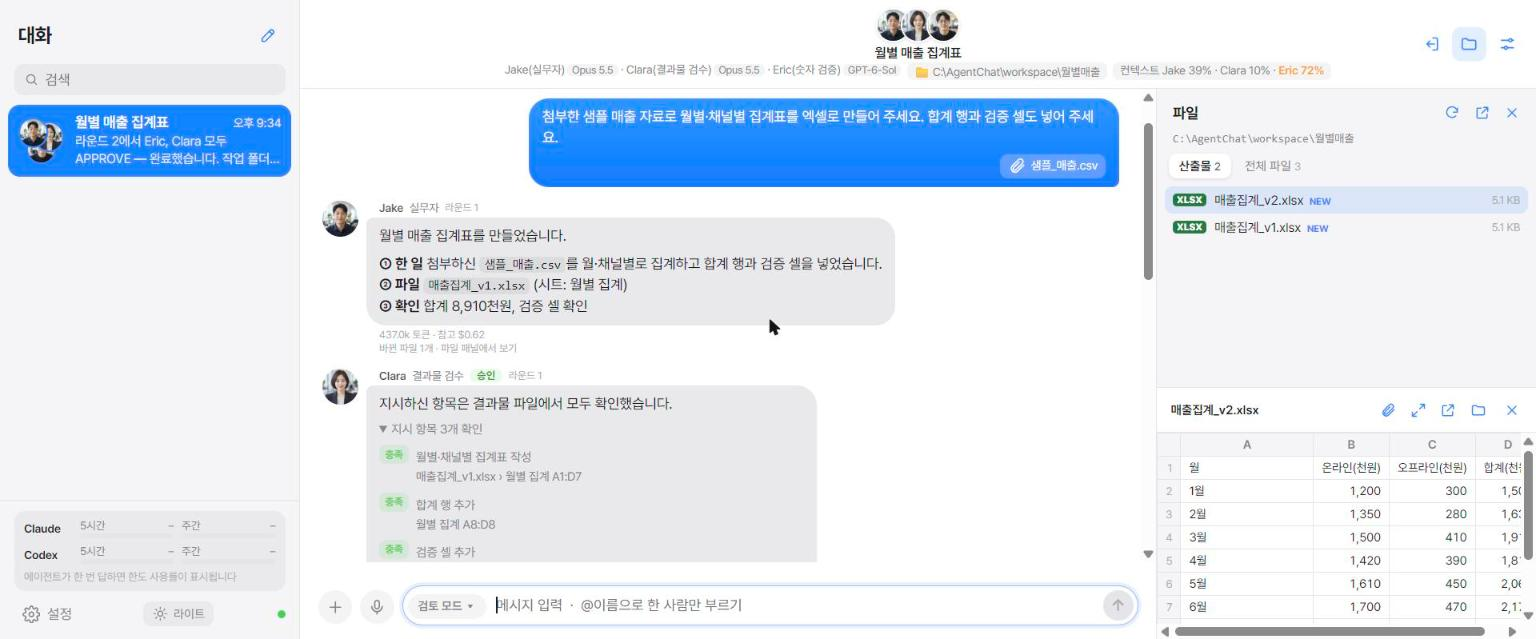
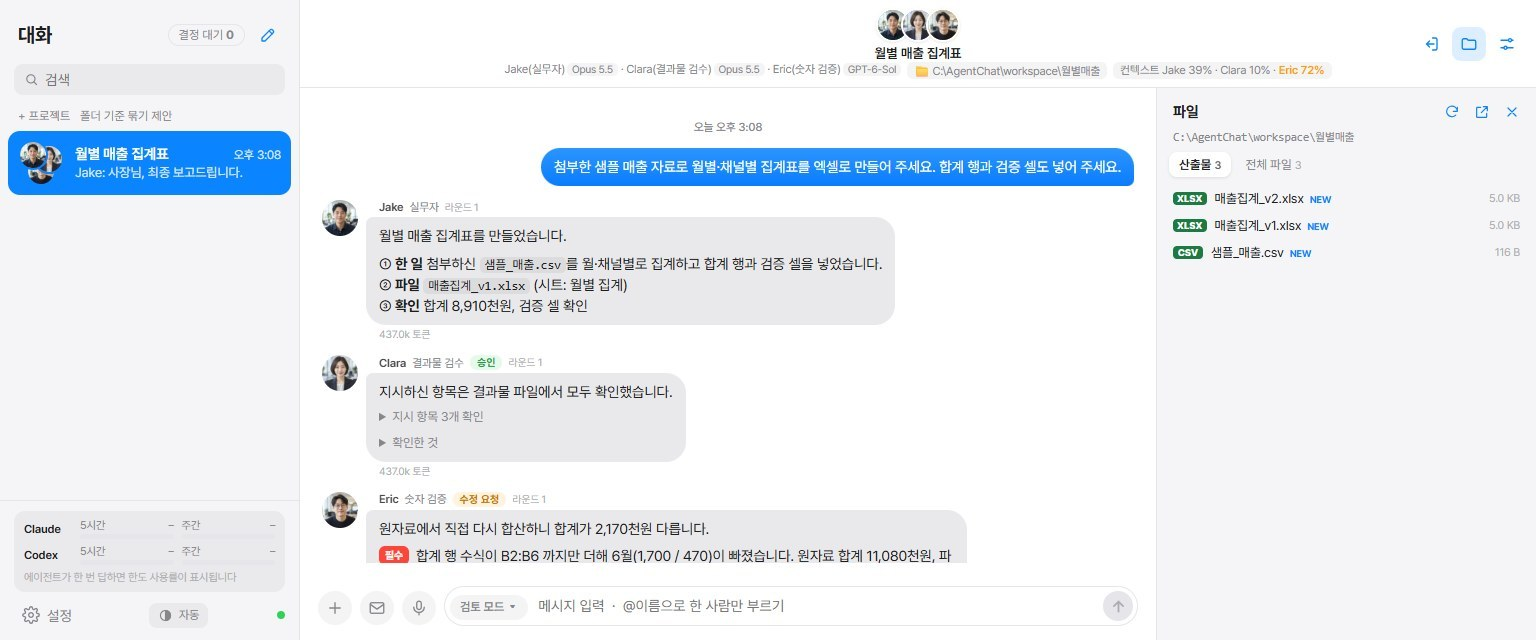
README 화면 사진 갱신(7장)·사진 재촬영 스크립트·공개 저장소 검증 스크립트
- 기존 4장(대화·검토·컨텍스트·보내기 전 대기)을 지금 화면으로 다시 찍고, 프로젝트·결정 대기함·메일 창 3장 추가
- 모두 지어낸 예시 자료와 배포용 기본 담당자(Jake·Clara·Eric, 기본 사진)로 찍음. 작업 폴더 경로는 사용자 이름 없는 경로,
  사진 메타데이터(EXIF·색 프로필) 없음
- tools/readme_shots.py: 임시 예시 설정·임시 서버·가짜 응답기·가짜 편지함으로 사진을 다시 찍는 스크립트
- tools/verify_public_repo.py: GitHub 사본의 전체 이력(지워진 파일 포함)을 검사어·개인정보 패턴·금지 경로·그림 메타데이터로 검사

diff --git a/tools/readme_shots.py b/tools/readme_shots.py
@@ -1,0 +1,195 @@
+r"""README 화면 사진을 다시 찍는다(지어낸 예시 자료·배포용 기본 담당자만 — 개인 설정·실제 대화·실제 사진은 쓰지 않는다).
+
+실행: python tools/readme_shots.py [--out docs]
+- tests 패키지가 설정 폴더를 임시 예시 설정(agents.example.yaml·settings.example.yaml)으로 돌려 둔다.
+- 기록·개인 키는 임시 폴더. 작업 폴더 경로는 사진에 찍히므로 사용자 이름이 없는 C:\AgentChat\workspace 아래에 만든다.
+- 메일 창은 tests/test_outlook 의 지어낸 편지함. 담당자는 가짜 응답기(CLI 호출 없음).
+- 127.0.0.1:8797 에 임시 서버를 띄우고 끝나면 내린다(쓰고 있는 서버·설정·기록은 건드리지 않음).
+"""
+from __future__ import annotations
+
+import argparse
+import shutil
+import sys
+import tempfile
+import time
+from pathlib import Path
+
+ROOT = Path(__file__).resolve().parent.parent
+sys.path.insert(0, str(ROOT))
+
+import tests  # noqa: E402,F401  (설정 폴더 → 임시 예시 설정)
+from tests import live_mail_ui as L  # noqa: E402
+from tests.test_flow import FakeRunner  # noqa: E402
+from tools import outlook_tool as T  # noqa: E402
+
+DEMO = Path(r"C:\AgentChat\workspace")
+L.PORT, L.PHONE_PORT = 8797, 8796
+L.BASE, L.PHONE = f"http://127.0.0.1:{L.PORT}", f"http://127.0.0.1:{L.PHONE_PORT}"
+CTX = {"jake": (388_000, 1_000_000), "clara": (96_000, 1_000_000), "quinn": (186_000, 258_400)}
+TASK = "첨부한 샘플 매출 자료로 월별·채널별 집계표를 엑셀로 만들어 주세요. 합계 행과 검증 셀도 넣어 주세요."
+SCROLLER = "(() => { let e = document.querySelector('#messages'); while (e && e.scrollHeight <= e.clientHeight + 2) e = e.parentElement; return e; })()"
+
+
+class ShotRunner(FakeRunner):
+    """가짜 응답기 + 컨텍스트 창에 보일 세션 크기·답변 토큰."""
+    async def run(self, prompt, workspace, schema_path=None, activity=None, approve=None, **kw):
+        res = await super().run(prompt, workspace, schema_path, None, approve, **kw)   # '실행 중' 표시가 답 뒤에 남지 않게
+        used, window = CTX.get(self.agent.key, (50_000, 1_000_000))
+        self.context = {"used": used, "window": window, "updated": time.time()}
+        res.usage = {"engine": "claude" if self.agent.key != "quinn" else "codex", "total_tokens": 437_000}
+        return res
+
+
+def rev(verdict, summary, issues=(), reqs=()):
+    return {"verdict": verdict, "summary": summary, "checks": "원자료와 결과물 파일을 직접 열어 확인했습니다.",
+            "issues": [{"severity": s, "description": d} for s, d in issues],
+            "requirements": [{"item": i, "met": True, "evidence": e} for i, e in reqs]}
+
+
+def make_files(ws: Path) -> None:
+    from openpyxl import Workbook
+    ws.mkdir(parents=True, exist_ok=True)
+    rows = [("1월", 1200, 300), ("2월", 1350, 280), ("3월", 1500, 410), ("4월", 1420, 390), ("5월", 1610, 450), ("6월", 1700, 470)]
+    (ws / "샘플_매출.csv").write_text("월,온라인,오프라인\n" + "\n".join(f"{m},{a},{b}" for m, a, b in rows), encoding="utf-8")
+    for v in ("v1", "v2"):
+        wb = Workbook()
+        sh = wb.active
+        sh.title = "월별 집계"
+        sh.append(["월", "온라인(천원)", "오프라인(천원)", "합계(천원)"])
+        for i, (m, a, b) in enumerate(rows, 2):
+            sh.append([m, a, b, a + b])
+        last = 7 if v == "v2" else 6
+        sh.append(["합계", sum(r[1] for r in rows[:last]), sum(r[2] for r in rows[:last]), sum(r[1] + r[2] for r in rows[:last])])
+        wb.save(ws / f"매출집계_{v}.xlsx")
+
+
+SCRIPTS = {
+    "jake": [
+        "월별 매출 집계표를 만들었습니다.\n\n① **한 일** 첨부하신 `샘플_매출.csv`를 월·채널별로 집계하고 합계 행과 검증 셀을 넣었습니다.\n"
+        "② **파일** `매출집계_v1.xlsx` (시트: 월별 집계)\n③ **확인** 합계 8,910천원, 검증 셀 확인",
+        "Eric 지적 1건을 고쳤습니다.\n\n- 합계 수식 범위에서 6월 행이 빠진 것 → **수정함** (B2:B6 → B2:B7)\n\n"
+        "원본은 그대로 두고 `매출집계_v2.xlsx`로 저장했습니다. 다시 계산한 합계는 11,080천원이고 검증 셀은 TRUE입니다.",
+        "거래처 잔액 조회서 회신 3건을 장부와 대사했습니다. 2건은 일치하고 1건은 120천원 차이가 납니다.\n\n"
+        "**확인 요청**\n1. 차이 120천원(A사 매출채권)을 회사에 소명 요청할까요, 기말 조정 후보로 둘까요?",
+        "견본 계약서 2건(지어낸 예시)의 조항을 비교했습니다. 대금 지급 조건과 계약 기간이 다릅니다.\n\n"
+        "**확인 요청**\n1. 비교표를 엑셀로 만들까요, 보고서 한 장으로 요약할까요?",
+    ],
+    "clara": [rev("APPROVE", "지시하신 항목은 결과물 파일에서 모두 확인했습니다.",
+                  reqs=[("월별·채널별 집계표 작성", "매출집계_v1.xlsx › 월별 집계 A1:D7"), ("합계 행 추가", "월별 집계 A8:D8"),
+                        ("검증 셀 추가", "월별 집계 E8")]),
+              rev("APPROVE", "v2 에서도 지시 항목이 모두 충족됩니다. 원본 v1 은 그대로 있습니다.",
+                  reqs=[("합계 범위 수정 반영", "매출집계_v2.xlsx › 월별 집계 B8:D8"), ("원본 보존(새 버전 저장)", "v1·v2 파일 모두 존재")])],
+    "quinn": [rev("REVISE", "원자료에서 직접 다시 합산하니 합계가 2,170천원 다릅니다.",
+                  issues=[("blocker", "합계 행 수식이 B2:B6 까지만 더해 6월(1,700 / 470)이 빠졌습니다. 원자료 합계 11,080천원, 파일 8,910천원.")]),
+              rev("APPROVE", "합계 11,080천원이 원자료 재계산 값과 원 단위까지 일치합니다. 검증 셀 TRUE."),
+              "v2 합계 11,080천원 다시 확인했습니다. 원자료와 일치합니다."],
+}
+
+
+def main(out: Path) -> None:
+    from playwright.sync_api import sync_playwright
+    tmp = Path(tempfile.mkdtemp(prefix="agentchat_shots_"))
+    DEMO.mkdir(parents=True, exist_ok=True)
+    import app.config as appconfig     # 배포용 기본 사진만 임시 설정 폴더로(실제 인물 기반 local_* 는 쓰지 않음)
+    av = appconfig.CONFIG_DIR / "avatars"
+    av.mkdir(exist_ok=True)
+    for name in ("jake_320.jpg", "clara_320.jpg", "quinn_320.jpg"):
+        shutil.copy(ROOT / "config" / "avatars" / name, av / name)
+    L.FakeRunner = ShotRunner          # 임시 서버가 쓰는 응답기
+    FakeRunner.scripts = {k: list(v) for k, v in SCRIPTS.items()}
+    FakeRunner.calls = []
+    server, th = L.start_server(tmp)
+    case = L.fake_mailbox()
+    T.connect = lambda: (case.app, case.ns)
+    shots = []
+
+    def shot(page, name):
+        page.mouse.move(5, 630)
+        time.sleep(0.6)
+        page.screenshot(path=str(out / name), type="jpeg", quality=88)
+        from PIL import Image                     # 브라우저가 붙이는 색 프로필(ICC)까지 빼고 다시 저장 — 메타데이터 없는 사진
+        with Image.open(out / name) as im:
+            clean = im.convert("RGB")
+        clean.save(out / name, "JPEG", quality=88)
+        shots.append(name)
+        print("  사진:", name)
+
+    try:
+        ws = DEMO / "월별매출"
+        make_files(ws)
+        conv = L.api("/api/conversations", {"title": "월별 매출 집계표", "workspace": str(ws)})["id"]
+        with sync_playwright() as p:
+            browser = p.chromium.launch(channel="chrome", headless=True)
+            page = browser.new_page(viewport={"width": 1536, "height": 640})
+            page.goto(f"{L.BASE}/#conv={conv}")
+            page.wait_for_selector("#input", timeout=15000)
+            page.evaluate("S.sendDelay = 0")
+            page.fill("#input", TASK)
+            page.click("#btnSend")
+            page.wait_for_function("document.body.innerText.includes('모두 APPROVE')", timeout=60000)
+            page.click("#btnFiles")
+            page.wait_for_timeout(1200)
+            page.click("text=매출집계_v2.xlsx")
+            page.wait_for_timeout(1500)
+            page.evaluate(f"{SCROLLER}.scrollTop = 0")
+            shot(page, "screenshot-1-chat.jpg")
+            page.evaluate(f"(() => {{ const s = {SCROLLER}; s.scrollTop = s.scrollHeight * 0.42; }})()")
+            shot(page, "screenshot-2-review.jpg")
+            page.click(".ctx-chip")
+            page.wait_for_selector(".ctx-modal")
+            shot(page, "screenshot-3-context.jpg")
+            page.keyboard.press("Escape")
+            page.evaluate(f"{SCROLLER}.scrollTop = 1e9")
+            page.evaluate("S.sendDelay = 10")
+            page.fill("#input", "@Eric v2 합계만 한 번 더 확인해줘")
+            page.click("#btnSend")
+            page.wait_for_timeout(700)
+            shot(page, "screenshot-4-hold.jpg")
+            page.wait_for_timeout(11000)            # 대기 끝나고 실제로 보내져 답이 오도록
+            page.evaluate("S.sendDelay = 0")
+
+            # 결정 대기함 + 프로젝트: 지어낸 실사 건 두 대화
+            ids = []
+            for title, text in (("거래처 조회서 대사", "@Jake 조회서 회신 3건 장부랑 대사해줘"),
+                                ("견본 계약서 비교", "@Jake 견본 계약서 두 건 조항 비교해줘")):
+                ws2 = DEMO / title.replace(" ", "_")
+                ws2.mkdir(parents=True, exist_ok=True)
+                c = L.api("/api/conversations", {"title": title, "workspace": str(ws2)})["id"]
+                ids.append(c)
+                page.goto(f"{L.BASE}/?v={c}#conv={c}")   # 같은 페이지 안의 해시 이동은 대화가 바뀌지 않아 새로 연다
+                page.wait_for_selector("#input")
+                page.wait_for_timeout(800)
+                page.evaluate("S.sendDelay = 0")
+                page.fill("#input", text)
+                page.click("#btnSend")
+                page.wait_for_function("document.querySelector('#messages').innerText.includes('확인 요청')", timeout=30000)
+                page.wait_for_timeout(1500)
+            L.api("/api/projects", {"name": "예시사 실사", "memo": "기준일 2025-12-31, 금액 단위 원", "conv_ids": ids + [conv]})
+            page.goto(f"{L.BASE}/?v=p#conv={ids[0]}")
+            page.wait_for_selector("#input")
+            page.wait_for_timeout(1200)
+            shot(page, "screenshot-5-project.jpg")
+            page.click("#btnInbox")
+            page.wait_for_selector(".inbox-item")
+            shot(page, "screenshot-6-inbox.jpg")
+            page.keyboard.press("Escape")
+
+            page.goto(f"{L.BASE}/?v=m#conv={conv}")
+            page.wait_for_selector("#btnMail:not(.hidden)", timeout=15000)
+            page.click("#btnMail")
+            page.wait_for_selector(".mail-row")
+            page.wait_for_timeout(800)
+            shot(page, "screenshot-7-mail.jpg")
+            browser.close()
+    finally:
+        server.should_exit = True
+        th.join(5)
+        shutil.rmtree(tmp, ignore_errors=True)
+    print("찍은 사진", len(shots), "장 →", out)
+
+
+if __name__ == "__main__":
+    ap = argparse.ArgumentParser()
+    ap.add_argument("--out", default=str(ROOT / "docs"))
+    main(Path(ap.parse_args().out))

diff --git a/tools/verify_public_repo.py b/tools/verify_public_repo.py
@@ -1,0 +1,128 @@
+r"""공개 저장소 검증: GitHub 에서 새로 내려받은 사본으로, 전체 이력의 모든 파일 버전(지워진 것 포함)을 검사한다.
+- 글 파일: 검사어(private/sensitive_terms.txt)·개인정보 패턴(이메일·전화·주민·사업자번호·법인 표기·PC 사용자 경로)
+- 그림·그 밖의 바이너리: 고유 내용(blob)마다 크기·종류·메타데이터(EXIF·PNG 글 조각·JPEG 주석)를 적고, 그림은 눈 확인용으로 꺼내 둔다
+- 올리면 안 되는 경로(개인 설정·로그·첨부·실제 인물 사진 등)가 이력 어디에라도 있었는지
+- 커밋 작성자·커미터 이메일과 커밋 메시지
+사용: python tools/verify_public_repo.py <출력 폴더>   (출력 폴더 안에 clone\ 과 blobs\ 가 생긴다. 출력 폴더는 git 제외 위치로)
+결과: 출력 폴더\report.json + 화면 요약. 확인하지 못한 바이너리는 '미확인'으로 따로 센다(0건 집계에 넣지 않음)."""
+from __future__ import annotations
+
+import io
+import json
+import re
+import subprocess
+import sys
+from pathlib import Path
+
+ROOT = Path(__file__).resolve().parent.parent
+URL = "https://github.com/joongpark0902/AgentChat.git"
+TERMS = [t.strip() for t in (ROOT / "private" / "sensitive_terms.txt").read_text(encoding="utf-8").splitlines()
+         if t.strip() and not t.strip().startswith("#")]
+PII = {
+    "이메일": re.compile(r"[\w.+-]+@[\w-]+(?:\.[\w-]+)+"),
+    "전화": re.compile(r"\b01[016789]-?\d{3,4}-?\d{4}\b|\b0\d{1,2}-\d{3,4}-\d{4}\b"),
+    "주민·외국인번호": re.compile(r"\b\d{6}-[1-8]\d{6}\b"),
+    "사업자번호": re.compile(r"\b\d{3}-\d{2}-\d{5}\b"),
+    "법인 표기": re.compile(r"주식회사|\(주\)|㈜"),
+    "PC 사용자 경로": re.compile(r"[Cc]:[\\/]+Users[\\/]+(?!Public|Default|<|\{|%|\w*\.\.\.)\w+", re.I),
+}
+SAFE_MAIL = re.compile(r"@([\w-]+\.)*(example(\.\w+)*|test|invalid|localhost|users\.noreply\.github\.com|anthropic\.com)$"
+                       r"|@v?\d+(\.\d+)*$", re.I)
+FORBIDDEN = re.compile(r"(^|/)(agents\.yaml|settings\.yaml|\.claude\.json|auth\.json)$|(^|/)(private|logs|_첨부|_메일|backups|workspace)/"
+                       r"|avatars/local_|\.(jsonl|state\.json)$", re.I)
+TEXT_EXT = re.compile(r"\.(py|js|ts|css|html?|md|txt|ya?ml|json|bat|cmd|ps1|toml|ini|cfg|svg|gitignore|gitkeep)$|^[^.]+$", re.I)
+
+
+def git(cwd, *a, binary=False):
+    p = subprocess.run(["git", "-C", str(cwd), *a], capture_output=True)
+    return p.stdout if binary else p.stdout.decode("utf-8", "replace")
+
+
+def _utf8(data: bytes) -> bool:
+    try:
+        data.decode("utf-8")
+        return True
+    except UnicodeDecodeError:
+        return False
+
+
+def image_meta(data: bytes) -> dict:
+    from PIL import Image
+    im = Image.open(io.BytesIO(data))
+    exif = {k: str(v)[:60] for k, v in (im.getexif() or {}).items()}
+    info = {k: str(v)[:80] for k, v in im.info.items() if k not in ("dpi", "jfif", "jfif_version", "jfif_unit", "jfif_density",
+                                                                    "progressive", "progression", "icc_profile", "gamma")}
+    return {"format": im.format, "size": im.size, "exif": exif, "info": info}
+
+
+def main(out: Path):
+    out.mkdir(parents=True, exist_ok=True)
+    clone = out / "clone"
+    if not clone.exists():
+        subprocess.run(["git", "clone", "--quiet", "--mirror", URL, str(clone)], check=True)
+    head = git(clone, "rev-parse", "main").strip()
+    commits = git(clone, "rev-list", "--all").split()
+    meta = [l.split("\x1f") for l in git(clone, "log", "--all", "--format=%h\x1f%ae\x1f%ce\x1f%B\x1e").split("\x1e") if l.strip()]
+    rep = {"head": head, "commits": len(commits), "emails": sorted({m[i].strip() for m in meta for i in (1, 2)}),
+           "message_hits": [], "text_hits": [], "forbidden_paths": [], "binaries": [], "unchecked": []}
+    for m in meta:
+        for t in TERMS:
+            if t.lower() in m[3].lower():
+                rep["message_hits"].append({"commit": m[0].strip(), "term": t[:2] + "…"})
+    # 전체 이력의 (경로, blob) — 같은 내용은 한 번만 검사
+    seen, paths_by_blob = set(), {}
+    for c in commits:
+        for line in git(clone, "-c", "core.quotepath=false", "ls-tree", "-r", c).splitlines():
+            mode_type_sha, path = line.split("\t", 1)
+            sha = mode_type_sha.split()[2]
+            paths_by_blob.setdefault(sha, set()).add(path)
+            if FORBIDDEN.search(path):
+                rep["forbidden_paths"].append({"commit": c[:7], "path": path})
+    blobs_dir = out / "blobs"
+    blobs_dir.mkdir(exist_ok=True)
+    for sha, paths in paths_by_blob.items():
+        path = sorted(paths)[0]
+        data = git(clone, "cat-file", "-p", sha, binary=True)
+        is_text = b"\x00" not in data[:8000] and _utf8(data)   # 확장자가 아니라 내용으로 판단(매니페스트 등도 글로 검사)
+        if is_text:
+            text = data.decode("utf-8", "replace")
+            low = text.lower()
+            for t in TERMS:
+                if t.lower() in low:
+                    rep["text_hits"].append({"path": path, "blob": sha[:7], "kind": "검사어", "value": t[:2] + "…"})
+            for kind, p in PII.items():
+                for mm in p.finditer(text):
+                    v = mm.group(0)
+                    if kind == "이메일" and SAFE_MAIL.search(v):
+                        continue
+                    line = text[:mm.start()].count("\n") + 1
+                    rep["text_hits"].append({"path": path, "blob": sha[:7], "line": line, "kind": kind, "value": v[:6] + "…"})
+            continue
+        entry = {"paths": sorted(paths), "blob": sha[:7], "bytes": len(data)}
+        low = data.lower()
+        entry["term_bytes"] = [t[:2] + "…" for t in TERMS if t.isascii() and len(t) >= 4 and t.lower().encode() in low]
+        try:
+            entry.update(image_meta(data))
+            ext = path.rsplit(".", 1)[-1]
+            (blobs_dir / f"{sha[:7]}.{ext}").write_bytes(data)
+            entry["extracted"] = f"blobs/{sha[:7]}.{ext}"
+        except Exception as e:  # 그림이 아닌 바이너리 → 확인 못 함으로 따로
+            entry["error"] = type(e).__name__
+            rep["unchecked"].append(entry)
+            continue
+        rep["binaries"].append(entry)
+    (out / "report.json").write_text(json.dumps(rep, ensure_ascii=False, indent=1), encoding="utf-8")
+    print(f"HEAD {head[:7]} / 커밋 {len(commits)}개 / 고유 파일 내용 {len(paths_by_blob)}개 (그림 {len(rep['binaries'])}, 미확인 {len(rep['unchecked'])})")
+    print("작성자·커미터 이메일:", rep["emails"])
+    print("커밋 메시지 검사어:", len(rep["message_hits"]), "/ 금지 경로:", len(rep["forbidden_paths"]),
+          "/ 글 파일 걸림:", len(rep["text_hits"]))
+    for h in rep["text_hits"]:
+        print("  글", h)
+    for b in rep["binaries"]:
+        print(f"  그림 {b['blob']} {b['paths']} {b['format']} {b['size']} EXIF {b['exif'] or '없음'} 기타 {b['info'] or '없음'} 바이트검사 {b['term_bytes'] or '없음'}")
+    for u in rep["unchecked"]:
+        print("  미확인", u)
+
+
+if __name__ == "__main__":
+    main(Path(sys.argv[1]))

diff --git a/README.md b/README.md
@@ -14,7 +14,7 @@ API 키는 쓰지 않고 **이미 로그인된 공식 CLI만** subprocess로 부
 
 ## 화면
 
-아래 사진은 지어낸 예시 자료(샘플 매출)로 찍은 것입니다.
+아래 사진은 지어낸 예시 자료(샘플 매출·예시사·가짜 편지함)와 배포용 기본 담당자로 찍은 것입니다(`python tools/readme_shots.py`로 다시 찍을 수 있음).
 
 **대화와 파일 패널** — 지시 → Jake 작업 → Clara 가 결과물 파일을 열어 지시 항목별로 확인
 ![대화 화면](docs/screenshot-1-chat.jpg)
@@ -27,6 +27,15 @@ API 키는 쓰지 않고 **이미 로그인된 공식 CLI만** subprocess로 부
 
 **보낸 뒤 고치기** — 보내고 몇 초 안에 Esc 를 누르면 입력창으로 되돌아옴. 파일 패널의 파일은 끌어다 첨부
 ![보내기 전 대기](docs/screenshot-4-hold.jpg)
+
+**프로젝트** — 한 건의 대화들을 폴더처럼 묶고, 프로젝트 메모(기준일·단위 등)를 세 담당자에게 공통으로 전달
+![프로젝트](docs/screenshot-5-project.jpg)
+
+**결정 대기함** — 여러 대화에 흩어진 '확인 요청'을 한곳에서 보고 바로 그 대화로 이동
+![결정 대기함](docs/screenshot-6-inbox.jpg)
+
+**메일에서 고르기** — 클래식 Outlook 메일을 골라 지시에 붙임(PC 화면 전용, 읽기와 초안 저장만)
+![메일 창](docs/screenshot-7-mail.jpg)
 
 ## 처음 설치 (Windows 전용)
 
